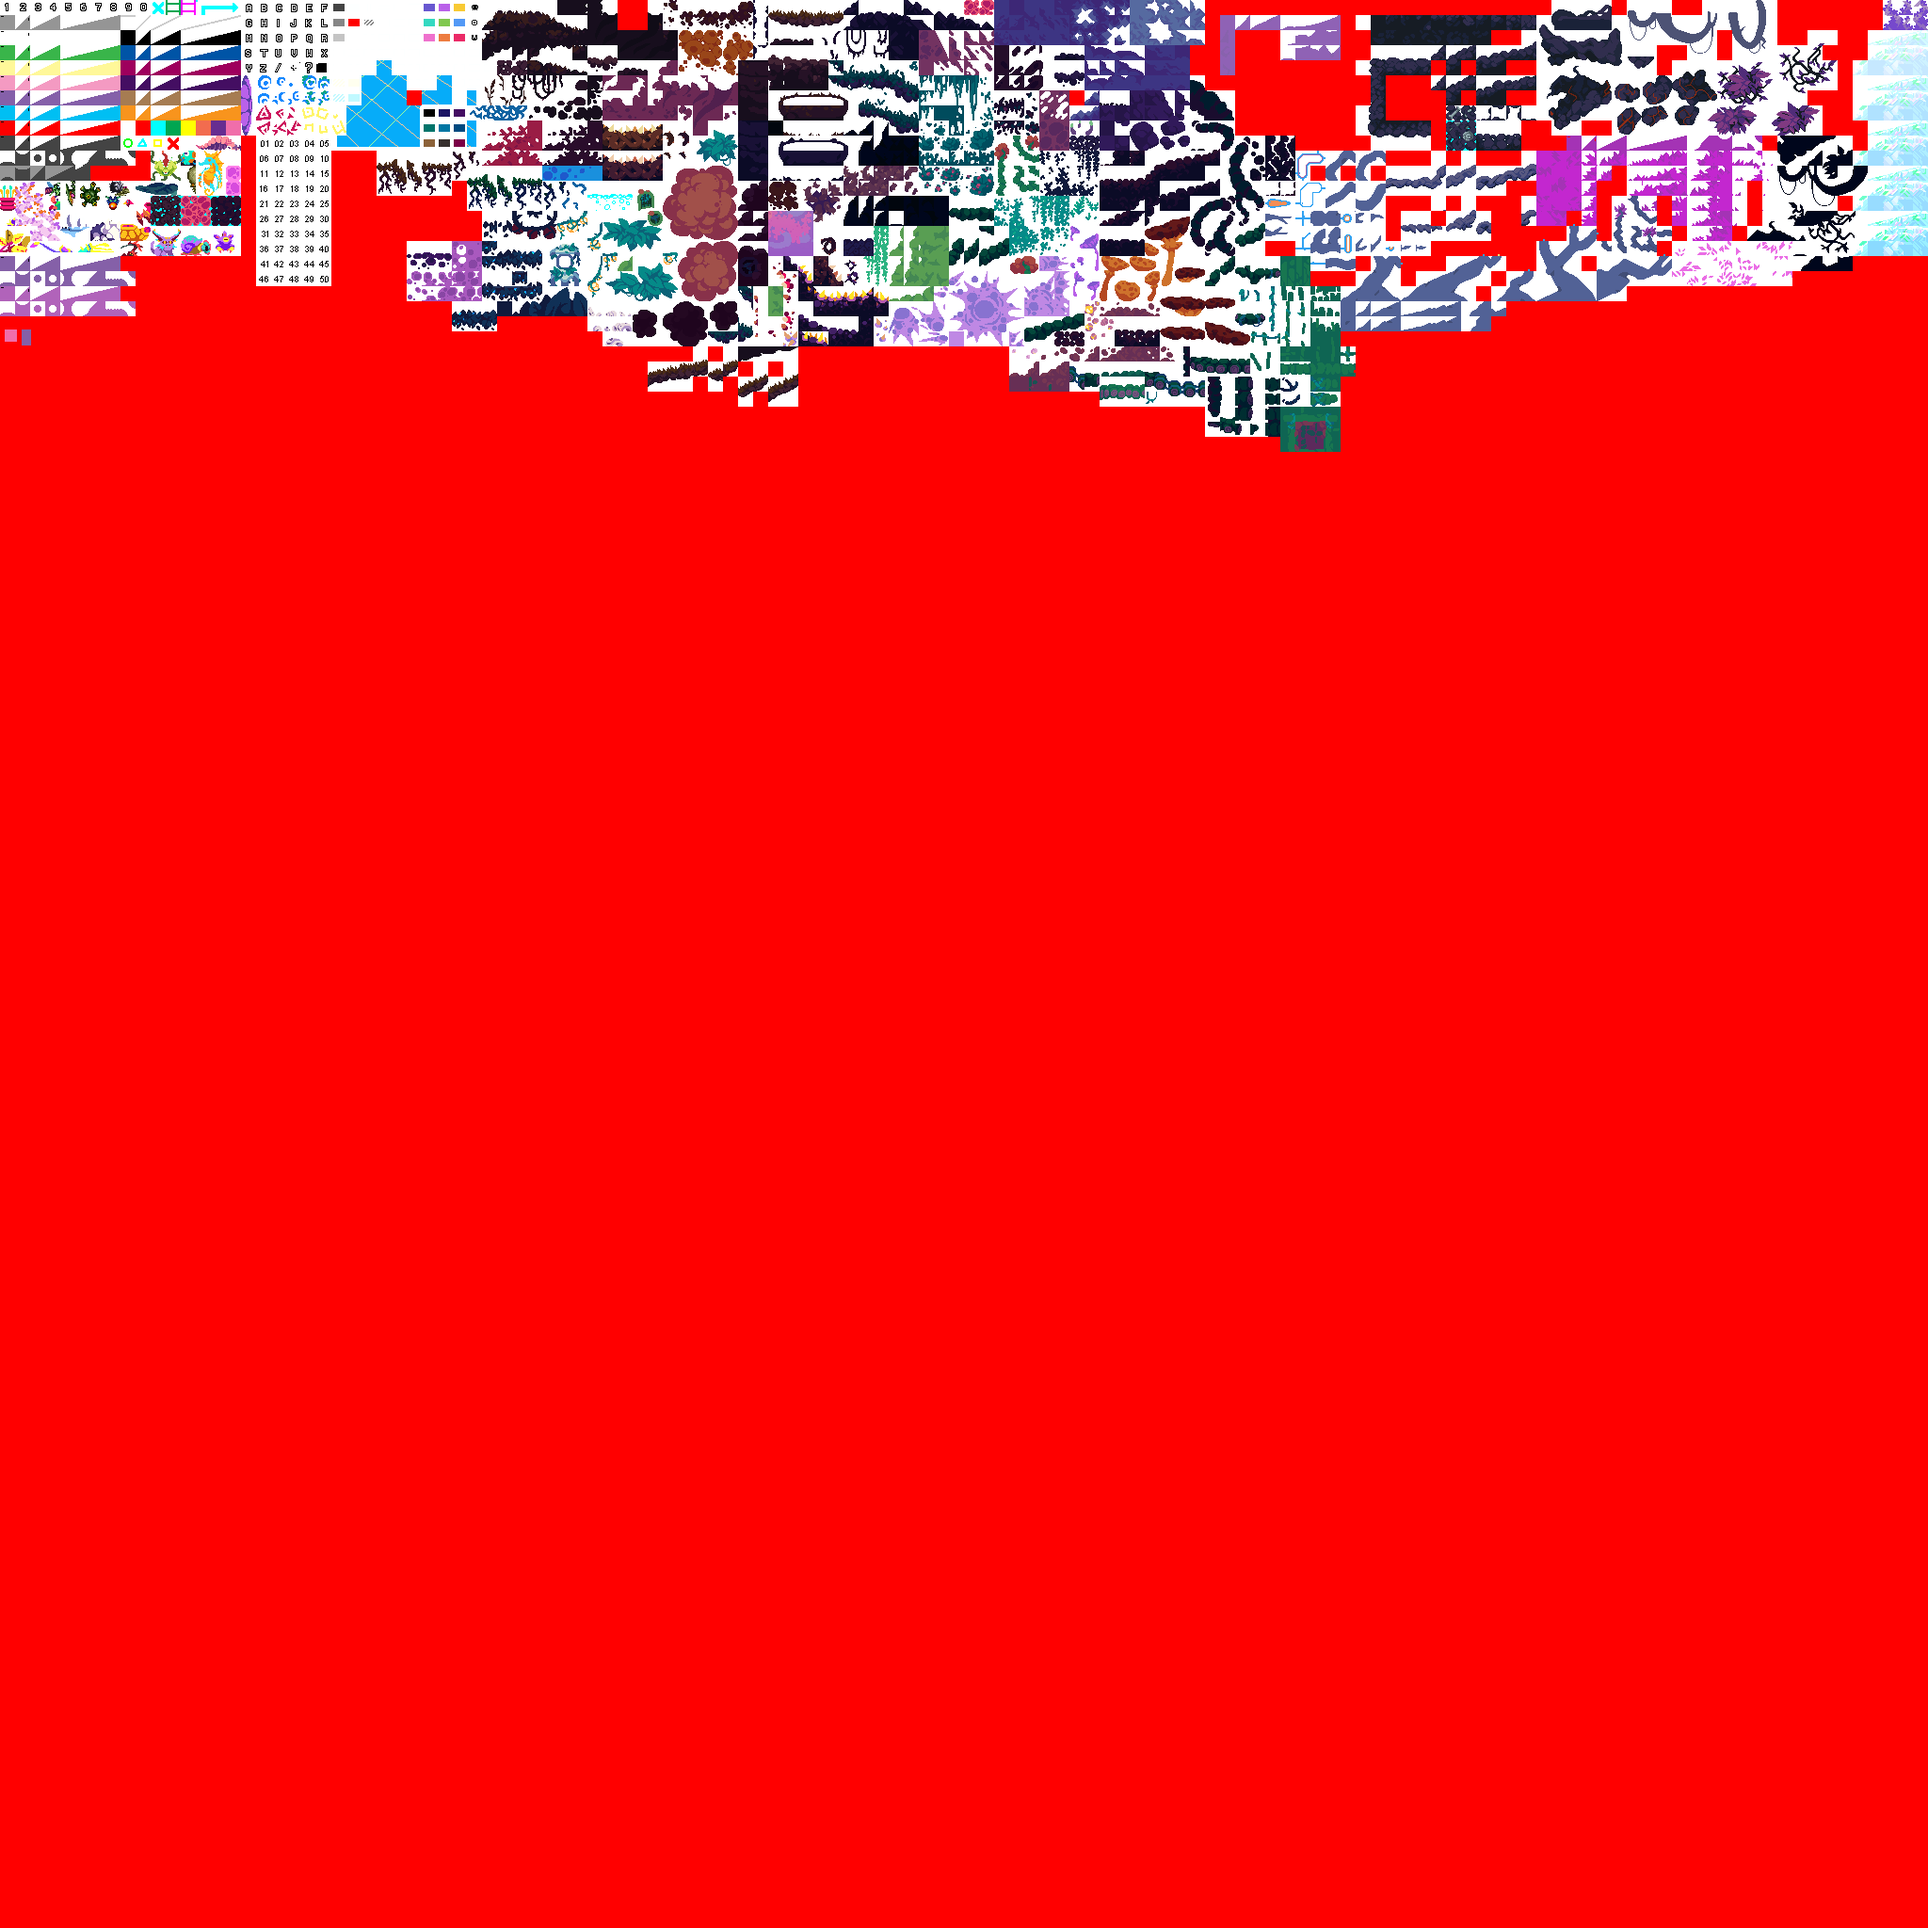
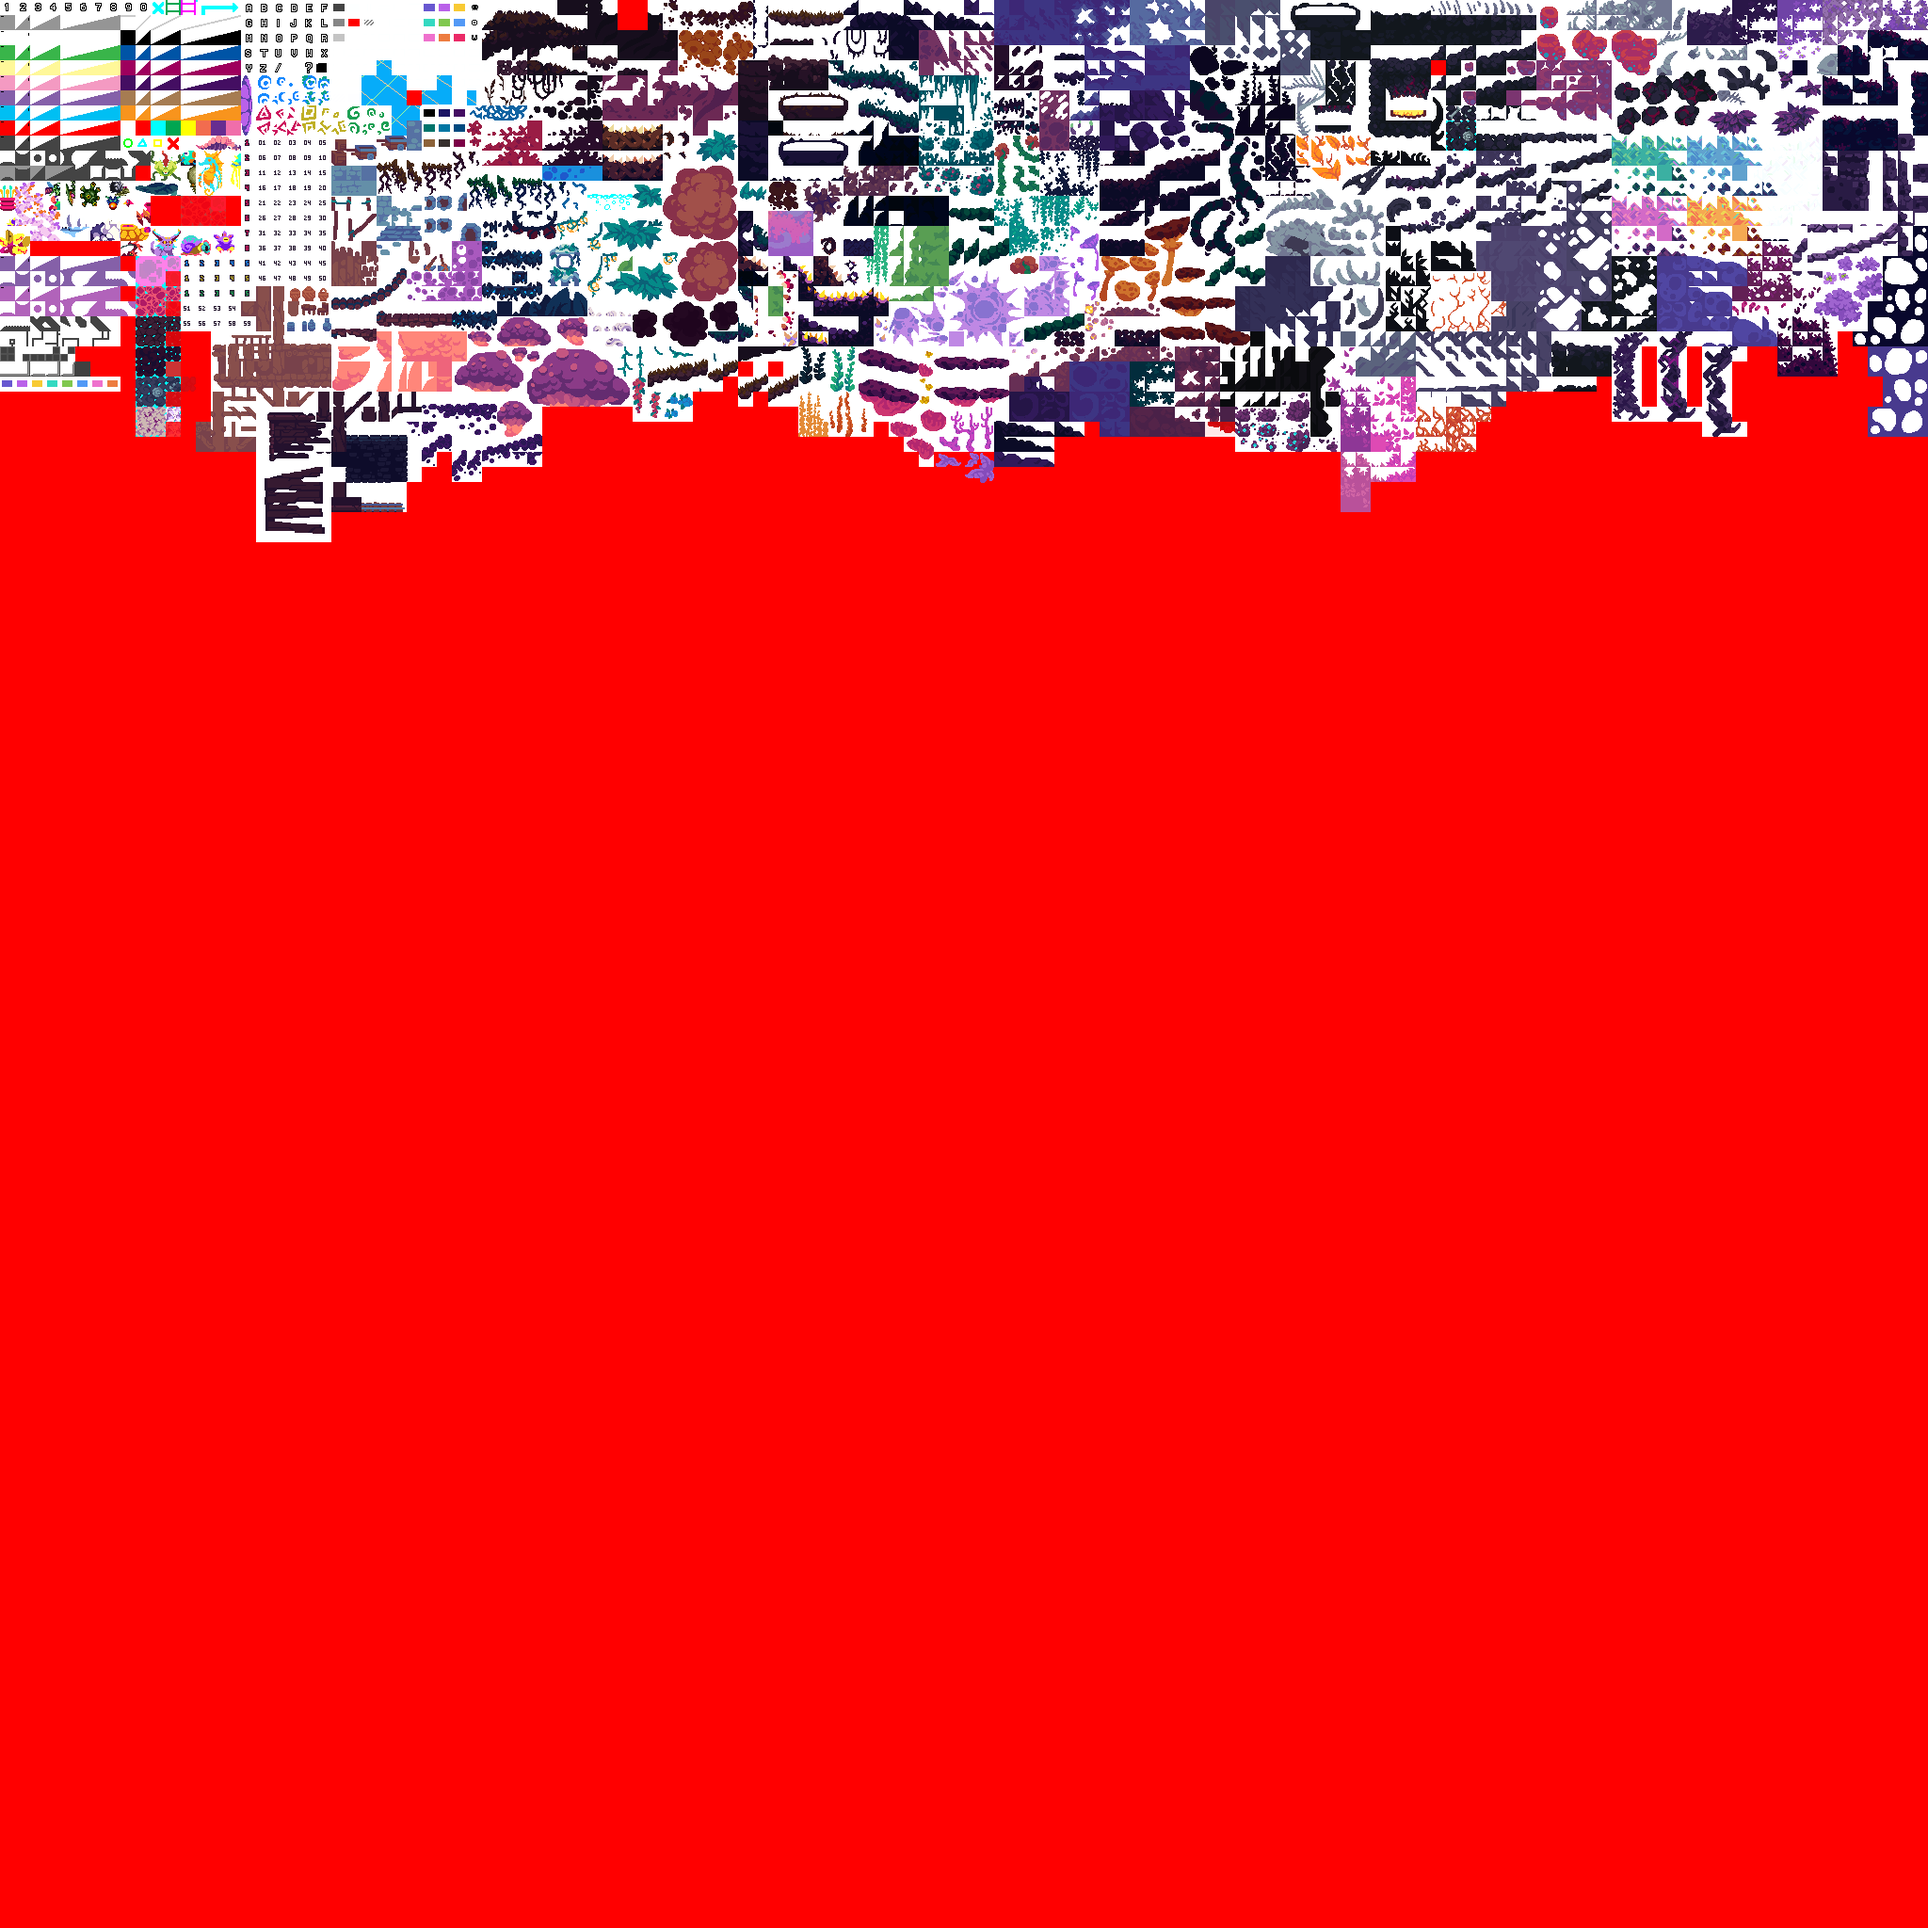
Updating tiles.png and whale_nebula tsx file
This will allow everyone to view the Tiled files without having to relocate the TSX file everytime

diff --git a/input/gfx/WhaleNebulaTileset.tsx b/input/gfx/WhaleNebulaTileset.tsx
@@ -1,0 +1,4 @@
+<?xml version="1.0" encoding="UTF-8"?>
+<tileset version="1.5" tiledversion="1.6.0" name="WhaleNebulaTileset" tilewidth="16" tileheight="16" tilecount="16384" columns="128">
+ <image source="true_tiles.PNG" width="2048" height="2048"/>
+</tileset>
